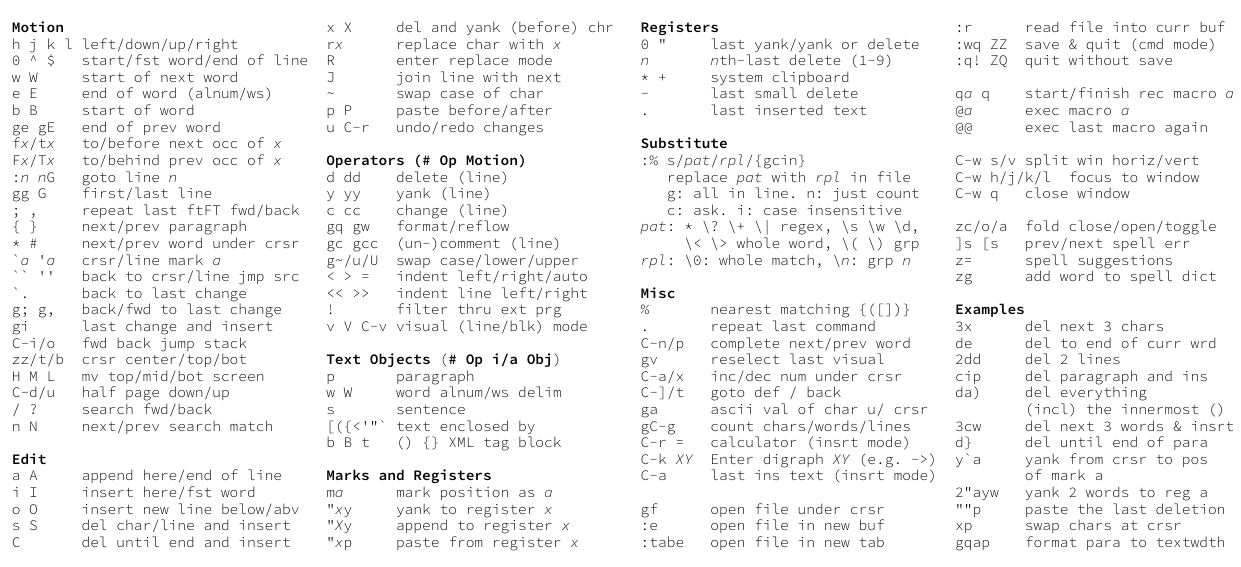
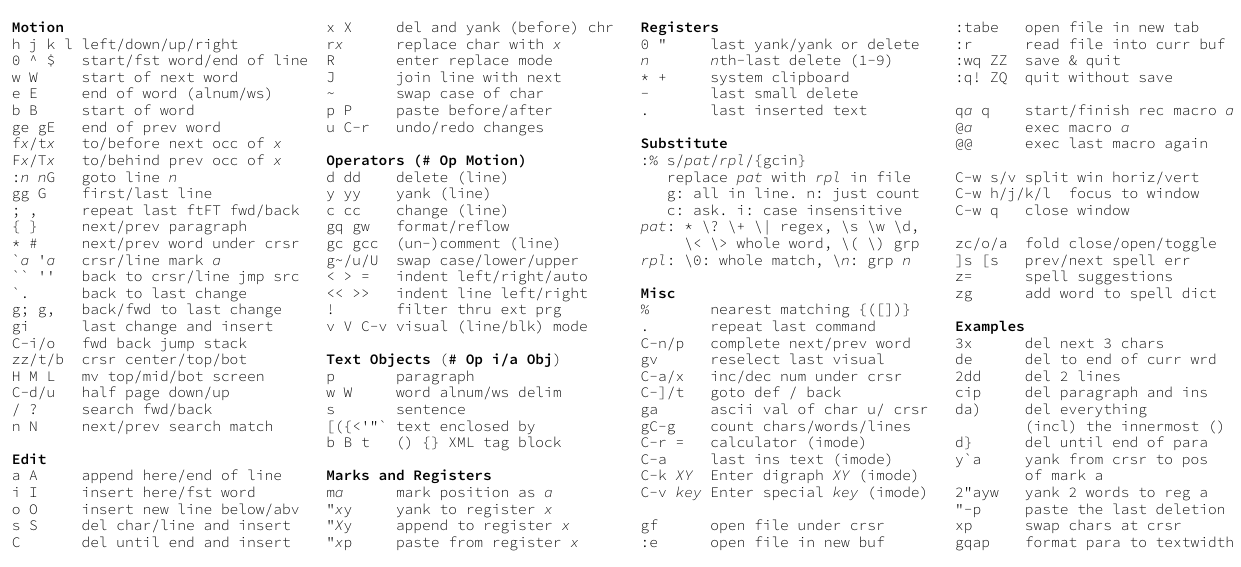
added special key

diff --git a/vim_cheat_mug.tex b/vim_cheat_mug.tex
@@ -113,17 +113,18 @@ C-a/x   inc/dec num under crsr
 C-]/t   goto def / back
 ga      ascii val of char u/ crsr
 gC-g    count chars/words/lines
-C-r =   calculator (insrt mode)
-C-k ¶XY¶  Enter digraph ¶XY¶ (e.g. ->)
-C-a     last ins text (insrt mode)
+C-r =   calculator (imode)
+C-a     last ins text (imode)
+C-k ¶XY¶  Enter digraph ¶XY¶ (imode)
+C-v ¶key¶ Enter special ¶key¶ (imode)
 
 gf      open file under crsr
 :e      open file in new buf
-:tabe   open file in new tab
 \end{lstlisting}
 \begin{lstlisting}
+:tabe   open file in new tab
 :r      read file into curr buf
-:wq ZZ  save & quit (cmd mode)
+:wq ZZ  save & quit
 :q! ZQ  quit without save
 
 q¶a¶ q    start/finish rec macro ¶a¶
@@ -146,14 +147,13 @@ de      del to end of curr wrd
 cip     del paragraph and ins
 da)     del everything
         (incl) the innermost ()
-3cw     del next 3 words & insrt
 d}      del until end of para
 y`a     yank from crsr to pos
         of mark a
 2"ayw   yank 2 words to reg a
-""p     paste the last deletion
+"-p     paste the last deletion
 xp      swap chars at crsr
-gqap    format para to textwdth
+gqap    format para to textwidth
 \end{lstlisting}
 \end{multicols}
 \end{document}
